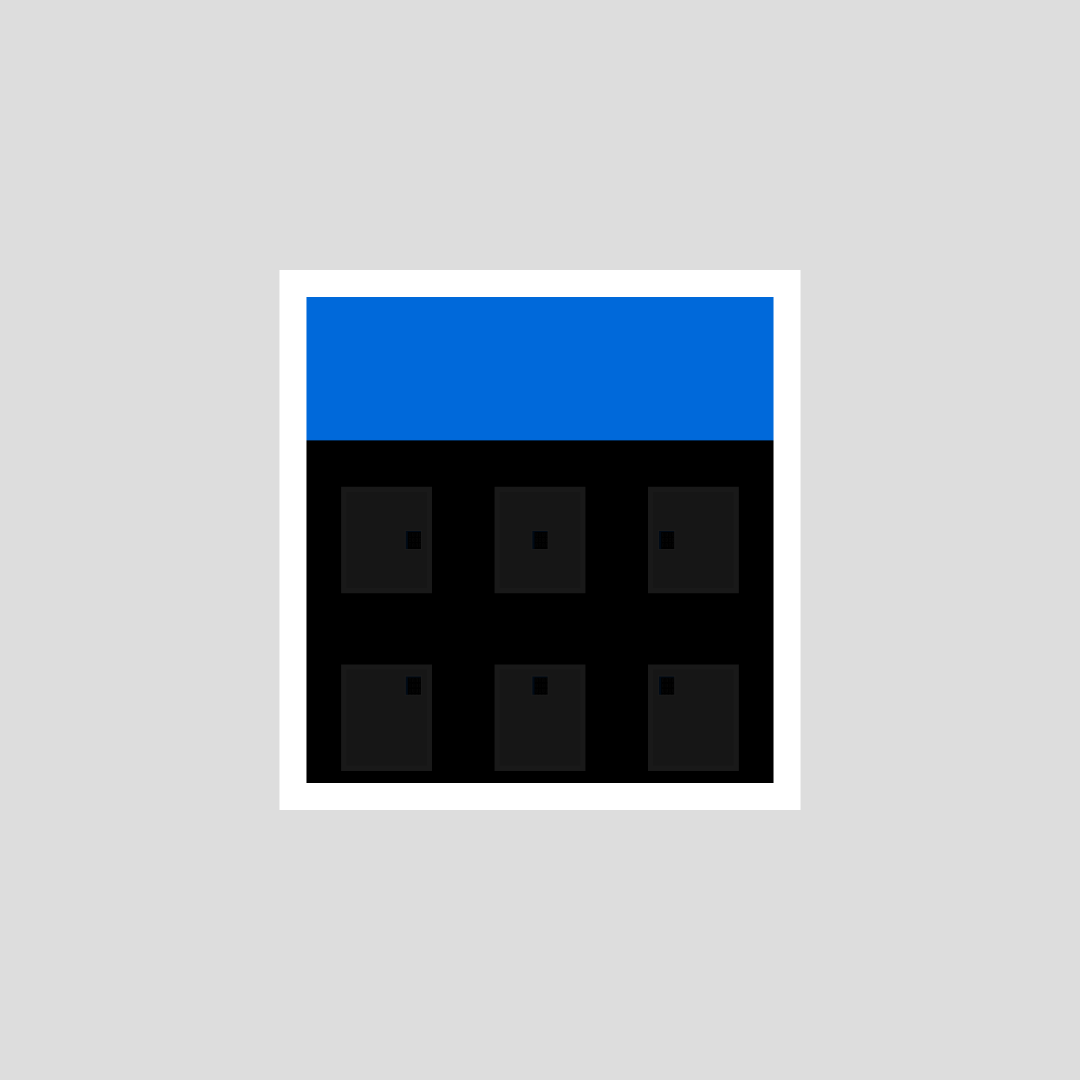
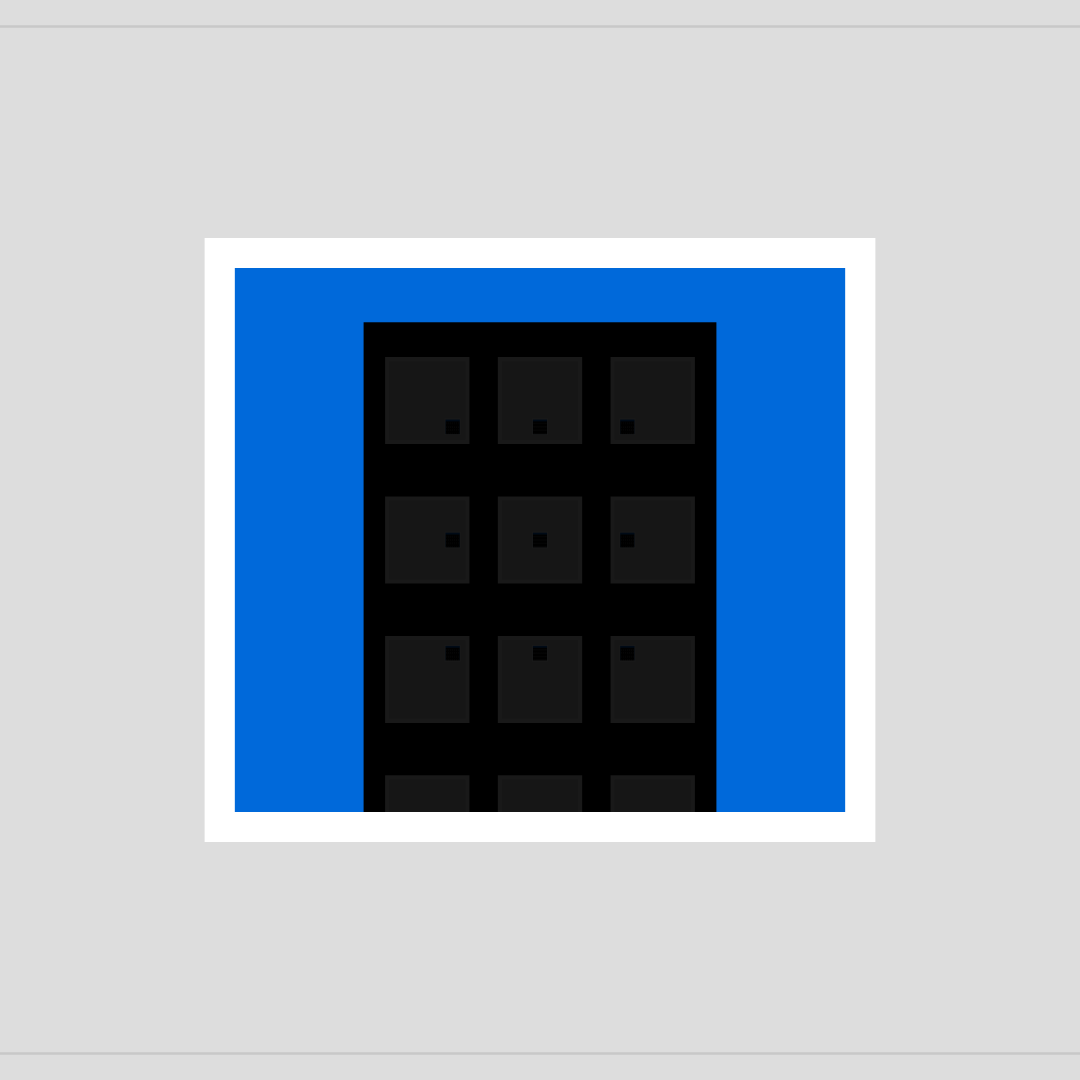
Show Not the Same Sun and Window, add room corner lines to Window

diff --git a/src/lib/data/ProjectData.ts b/src/lib/data/ProjectData.ts
@@ -140,31 +140,31 @@ export const projectData: Project[] = [
 		description: `<p style="margin-block-start: 0;">
 			This piece grew out of a simple observation. When asked to draw "meaningful" and "absurd," people consistently drew structure for the first and randomness for the second, even when their reasoning differed. <span style="font-style: italic;">Meaning</span> takes that finding and reverses it: the structured canvas, an orange dot circling a fixed track, is titled Meaningless. The chaotic canvas, an orange dot drifting unpredictably, is titled Meaningful. The piece asks how quickly meaning is assigned to a form, and what happens when the labels don't match what the eye expects. Meaning, it suggests, is less in the form than in the looking.
 		</p>`
+	},
+	{
+		title: 'Not the Same Sun',
+		slug: 'not-the-same-sun',
+		route: '/projects/not-the-same-sun',
+		thumbnail: '/project-content/not-the-same-sun/thumb.png',
+		guide: 'No interaction required.\nWatch the sun cross the sky.',
+		interaction: [],
+		excerpt: 'The same sun, rising each day over a different landscape.',
+		description: `<p style="margin-block-start: 0;">
+			This piece is derived from a short note by Camus: "In a foreign country, the sun bathing the houses on a hill in golden light. A more intense emotion than that produced by the same sight in one's own country. It is not the same sun. I know perfectly well that it is not the same sun." The sun repeats more faithfully than anything else, rising and setting along the same arc every day. What it shines on does not. <span style="font-style: italic;">Not the Same Sun</span> follows one sun from sunrise to sunset. The world brightens as it climbs and darkens as it falls, until everything goes black. In the dark, the horizon and the stream are redrawn, and the same sun rises over a different place.
+		</p>`
+	},
+	{
+		title: 'Window',
+		slug: 'window',
+		route: '/projects/window',
+		thumbnail: '/project-content/window/thumb.png',
+		guide: 'No interaction required.\nWatch the view move through the window.',
+		interaction: [],
+		excerpt: 'An endless sequence of windows, each one looking out onto another.',
+		description: `<p style="margin-block-start: 0;">
+			This piece began with a glance out of a window that landed on another window across the street. Behind it, someone was probably doing the same thing, looking out at yet another window. <span style="font-style: italic;">Window</span> follows that thought. A single window in a pale room looks out on a blue sky and a dark building. The view drifts toward the glass and into one of the building's windows. Dark from the outside, it opens onto the same pale room, with the same window, facing a different building. The loop never arrives at a last window. Every view outward is also someone else's view inward.
+		</p>`
 	}
-	// {
-	// 	title: 'Not the Same Sun',
-	// 	slug: 'not-the-same-sun',
-	// 	route: '/projects/not-the-same-sun',
-	// 	thumbnail: '/project-content/not-the-same-sun/thumb.png',
-	// 	guide: 'No interaction required.\nWatch the sun cross the sky.',
-	// 	interaction: [],
-	// 	excerpt: 'The same sun, rising each day over a different landscape.',
-	// 	description: `<p style="margin-block-start: 0;">
-	// 		This piece is derived from a short note by Camus: "In a foreign country, the sun bathing the houses on a hill in golden light. A more intense emotion than that produced by the same sight in one's own country. It is not the same sun. I know perfectly well that it is not the same sun." The sun repeats more faithfully than anything else, rising and setting along the same arc every day. What it shines on does not. <span style="font-style: italic;">Not the Same Sun</span> follows one sun from sunrise to sunset. The world brightens as it climbs and darkens as it falls, until everything goes black. In the dark, the horizon and the stream are redrawn, and the same sun rises over a different place.
-	// 	</p>`
-	// },
-	// {
-	// 	title: 'Window',
-	// 	slug: 'window',
-	// 	route: '/projects/window',
-	// 	thumbnail: '/project-content/window/thumb.png',
-	// 	guide: 'No interaction required.\nWatch the view move through the window.',
-	// 	interaction: [],
-	// 	excerpt: 'An endless sequence of windows, each one looking out onto another.',
-	// 	description: `<p style="margin-block-start: 0;">
-	// 		This piece began with a glance out of a window that landed on another window across the street. Behind it, someone was probably doing the same thing, looking out at yet another window. <span style="font-style: italic;">Window</span> follows that thought. A single window in a pale room looks out on a blue sky and a dark building. The view drifts toward the glass and into one of the building's windows. Dark from the outside, it opens onto the same pale room, with the same window, facing a different building. The loop never arrives at a last window. Every view outward is also someone else's view inward.
-	// 	</p>`
-	// },
 	// {
 	// 	title: 'Large Loop Model',
 	// 	slug: 'large-loop-model',

diff --git a/static/project-content/window/script.js b/static/project-content/window/script.js
@@ -6,6 +6,8 @@
 // Room units: the room's window is 1 tall and centered on the origin.
 const FRAME = 0.05; // frame thickness relative to window height, for every window
 const PANE_H = 1 - 2 * FRAME;
+const BACK_WALL_W = 2.4; // the wall the window is in, seen straight on
+const BACK_WALL_H = 1.7;
 
 const CYCLE_SECONDS = 20;
 // How much a building window's glass hides the room behind it when seen from afar:
@@ -18,6 +20,7 @@ const FAR_DIM = 0.9;
 const PERSPECTIVE = 0.85;
 
 const ROOM = '#ddd';
+const ROOM_LINE = '#c8c8c8'; // corners where walls, floor and ceiling meet
 const WHITE = '#fff';
 const SKY = '#0069DA';
 const BUILDING = '#000';
@@ -143,6 +146,28 @@ function drawWindow(x, y, w, h, f, color, clip, view) {
 // the room color.
 function room(x, y, s, clip, n) {
 	if (s < 1) return;
+
+	// Back wall outline, and the corners running from it toward the viewer.
+	// Skipped once the back wall fills the whole view and no corner is in sight.
+	const bw = (BACK_WALL_W / 2) * s;
+	const bh = (BACK_WALL_H / 2) * s;
+	if (!(x - bw <= clip.x0 && x + bw >= clip.x1 && y - bh <= clip.y0 && y + bh >= clip.y1)) {
+		ctx.strokeStyle = ROOM_LINE;
+		ctx.lineWidth = 0.004 * s;
+		ctx.beginPath();
+		ctx.rect(x - bw, y - bh, 2 * bw, 2 * bh);
+		for (const [dx, dy] of [
+			[-1, -1],
+			[1, -1],
+			[1, 1],
+			[-1, 1]
+		]) {
+			ctx.moveTo(x + dx * bw, y + dy * bh);
+			ctx.lineTo(x + dx * bw * 40, y + dy * bh * 40);
+		}
+		ctx.stroke();
+	}
+
 	drawWindow(x, y, aspect(n - 1) * s, s, FRAME * s, WHITE, clip, (view) => facade(x, y, s, view, n));
 }
 
